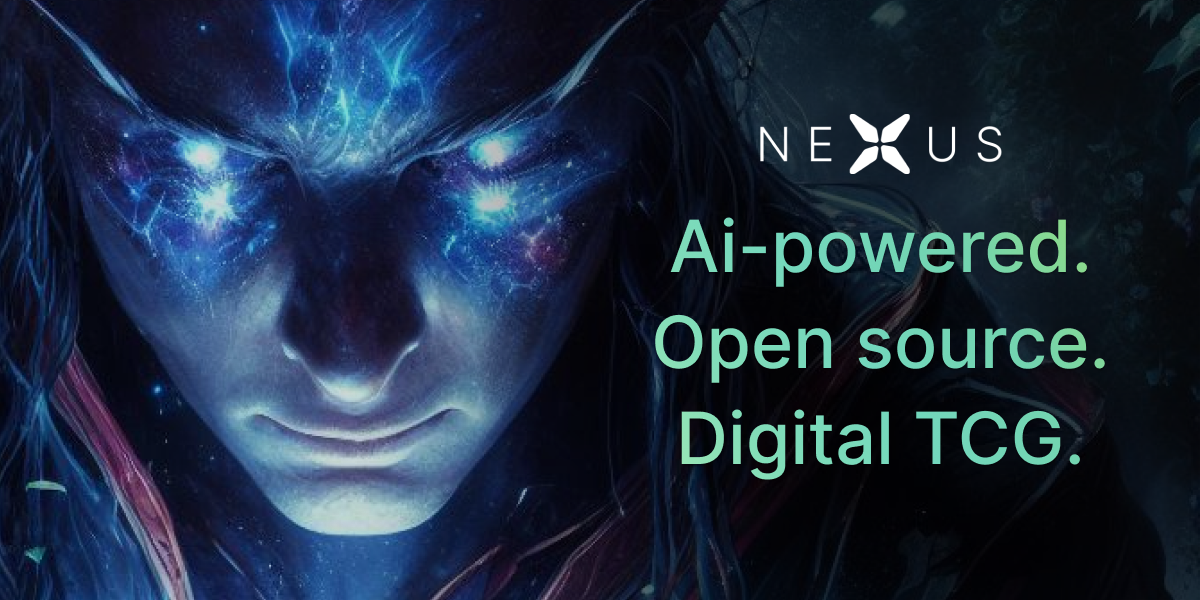
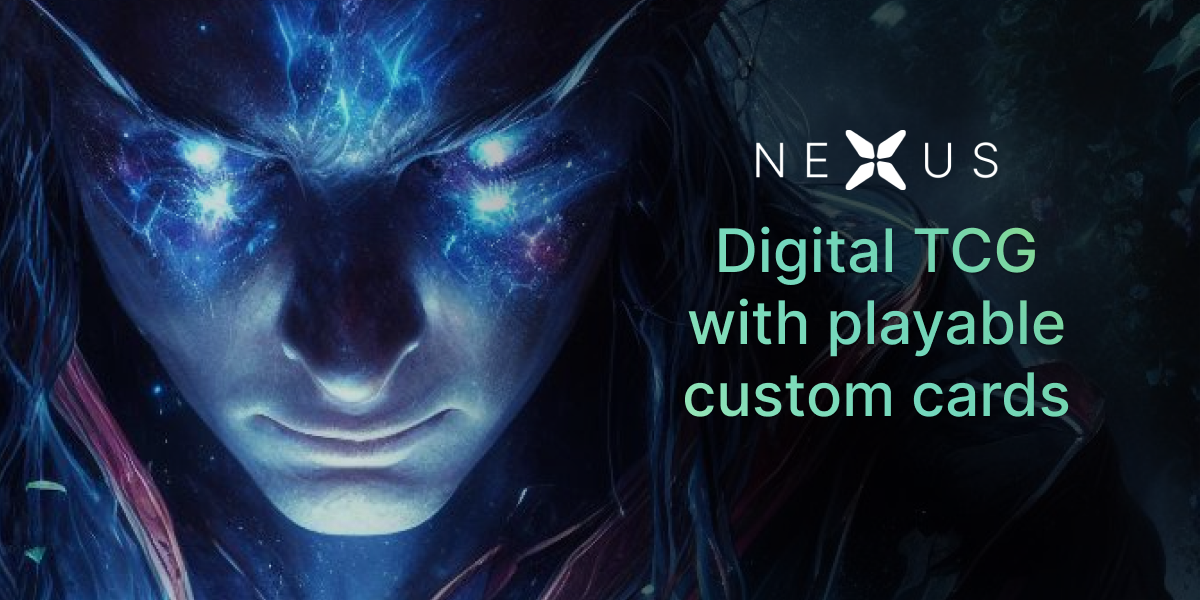
commit

Changed region(s): [[0.5242, 0.48, 0.925, 0.81], [0.555, 0.36, 0.925, 0.48], [0.6167, 0.18, 0.8325, 0.33]]

diff --git a/app/dashboard/cards/[slug]/page.tsx b/app/dashboard/cards/[slug]/page.tsx
@@ -69,13 +69,13 @@ export default function Card({
 
   // Fetch card data
   useEffect(() => {
-    const loadCardData = async () => {
-      const cardId = parseInt(params.slug, 10);
+    async function loadCardData() {
+      const cardSlug = parseInt(params.slug, 10);
       const cards = await fetchCards({
         from: "cards",
         filter: {
           column: "id",
-          value: cardId
+          value: cardSlug
         },
       });
 
@@ -336,51 +336,57 @@ export default function Card({
               "
             >
               <Tooltip title="Share">
-                <IconButton
-                  disabled={true} // Disabled until implemented
-                  aria-label="share"
-                  size="small"
-                  onClick={handleShare}
-                  className="
-                    opacity-50
-                    hover:opacity-100
-                  "
-                >
-                  <IosShareIcon />
-                </IconButton>
+                <>
+                  <IconButton
+                    disabled={true} // Disabled until implemented
+                    aria-label="share"
+                    size="small"
+                    onClick={handleShare}
+                    className="
+                      opacity-50
+                      hover:opacity-100
+                    "
+                  >
+                    <IosShareIcon />
+                  </IconButton>
+                </>
               </Tooltip>
               {isCardOwner && 
               cardData && (
                 <>
                   <Tooltip title="Edit">
-                    <IconButton
-                      disabled={!isCardOwner}
-                      aria-label="edit"
-                      size="small"
-                      onClick={handleEdit}
-                      className="
-                        opacity-50
-                        hover:opacity-100
-                      "
-                    >
-                      <EditIcon />
-                    </IconButton>
+                    <>
+                      <IconButton
+                        disabled={!isCardOwner}
+                        aria-label="edit"
+                        size="small"
+                        onClick={handleEdit}
+                        className="
+                          opacity-50
+                          hover:opacity-100
+                        "
+                      >
+                        <EditIcon />
+                      </IconButton>
+                    </>
                   </Tooltip>
                   <Tooltip title="Delete">
-                    <IconButton
-                      //  disabled={!isCardOwner} Disabled until implemented
-                      disabled={true}
-                      aria-label="delete"
-                      size="small"
-                      onClick={handleDelete}
-                      className="
-                        opacity-50
-                        hover:opacity-100
-                        hover:text-red-500
-                      "
-                    >
-                      <DeleteIcon />
-                    </IconButton>
+                    <>
+                      <IconButton
+                        //  disabled={!isCardOwner} Disabled until implemented
+                        disabled={true}
+                        aria-label="delete"
+                        size="small"
+                        onClick={handleDelete}
+                        className="
+                          opacity-50
+                          hover:opacity-100
+                          hover:text-red-500
+                        "
+                      >
+                        <DeleteIcon />
+                      </IconButton>
+                    </>
                   </Tooltip>
                 </>
               )}

diff --git a/app/layout.tsx b/app/layout.tsx
@@ -2,6 +2,7 @@ import React from "react";
 import { ThemeProvider } from "@mui/material/styles";
 import { Analytics } from "@vercel/analytics/react";
 import { Inter } from "next/font/google";
+import type { Metadata } from 'next'
 import theme from "@/app/styles/theme";
 import "@/app/styles/globals.css";
 import { PHProvider } from "@/app/providers";
@@ -19,11 +20,65 @@ const defaultUrl = process.env.VERCEL_URL
   ? `https://${process.env.VERCEL_URL}`
   : "http://localhost:3000";
 
-export const metadata = {
+export const metadata: Metadata = {
   metadataBase: new URL(defaultUrl),
-  title: "Nexus TCG",
-  description:
-    "Nexus is a digital trading card game where players can make the cards they play.",
+  keywords: [
+    "TCG", 
+    "Trading Card Game",
+    "Trading Card Games",
+    "Card Game",
+    "Card Games",
+    "Custom Card",
+    "Custom Cards", 
+    "AI",
+    "Artificial Intelligence",
+    "Generate AI",
+    "AI card generator",
+    "AI custom card",
+    "AI custom TCG card",
+    "AI TCG",
+    "Nexus", 
+    "Nexus TCG",
+    "Nexus Trading Card Game",
+    "Nexus Card Creator",
+    "Nexus Card Generator",
+    "Nexus Discord",
+    "create trading cards online",
+    "create custom trading cards",
+    "how to create trading cards",
+    "how to make trading cards",
+    "how to create custom trading cards",
+    "how to make custom trading cards",
+    "DALL-E gaming",
+    "ChatGPT gaming",
+    "generative AI card game",
+    "alternative to Magic the Gathering",
+    "alternative to Yu-Gi-Oh",
+    "alternative to Pokemon",
+    "alternative to Hearthstone",
+    "alternative to MTG",
+    "alternative to YGO",
+    "alternative to PTCG",
+    "Magic the Gathering is expensive",
+    "Yu-Gi-Oh is expensive",
+    "Pokemon is expensive",
+    "Hearthstone is expensive",
+    "MTG is expensive",
+    "TCG community",
+    "trading card game community",
+    "how to create your own digital cards with AI",
+  ],
+  title: {
+    default: "Nexus TCG",
+    template: `%s | Nexus TCG`,
+  },
+  openGraph: {
+    description: "Nexus is a digital TCG where players can make playable custom cards with the help of AI.",
+    images: [
+      "https://play.nexus/opengraph-image.png", 
+      "https://play.nexus/twitter-image.png"
+    ],
+  }
 };
 
 type RootLayoutProps = {

diff --git a/app/sitemap.ts b/app/sitemap.ts
@@ -1,7 +1,35 @@
+import fetchCards from "@/app/lib/actions/supabase-data/fetchCardData";
+import { CardsTableType } from "@/app/utils/types/supabase/cardsTableType";
+
 export default async function sitemap() {
   const baseUrl = "https://play.nexus";
-  return [{
-    url: baseUrl,
-    lastModified: new Date(),
-  }]
-}
+
+  const response = await fetchCards({
+    from: "cards",
+    select: "*",
+  });
+  const cards = response?.map((card: CardsTableType) => {
+    return {
+      url: baseUrl + `/dashboard/cards/${card.id}`,
+      lastModified: card.updated_at ? 
+        new Date(card.updated_at) : (
+          card.created_at ? 
+          new Date(card.created_at) : 
+          new Date()
+        ),
+    };
+  });
+
+  return cards !== undefined ? [
+    {
+      url: baseUrl,
+      lastModified: new Date(),
+    },
+    ...cards,
+  ] : [
+    {
+      url: baseUrl,
+      lastModified: new Date(),
+    },
+  ];
+};

diff --git a/app/robots.ts b/app/robots.ts
@@ -1,0 +1,14 @@
+import { MetadataRoute } from "next";
+
+export default function robots(): MetadataRoute.Robots {
+  const baseUrl = "https://play.nexus";
+
+  return {
+    rules: {
+      userAgent: "*",
+      allow: ["/"],
+      disallow: []
+    },
+    sitemap: baseUrl + "/sitemap.xml",
+  };
+};
